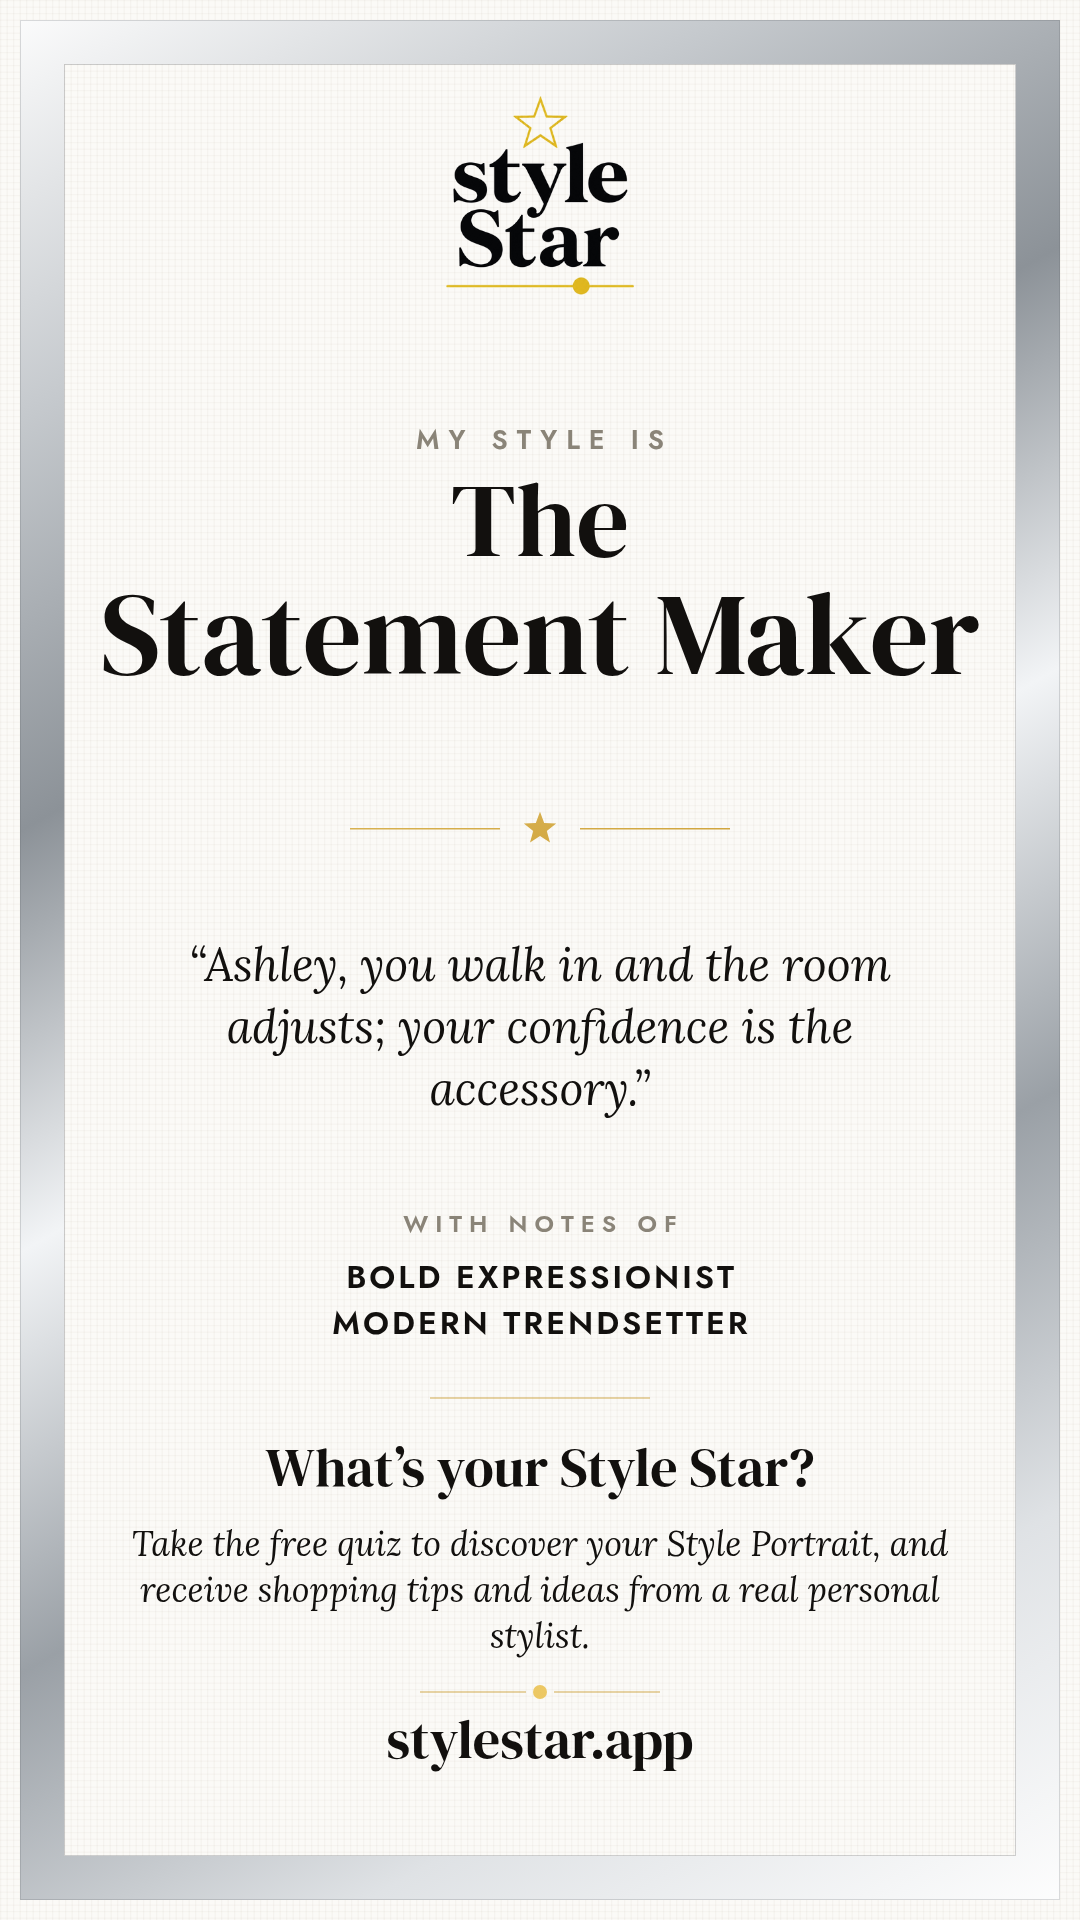
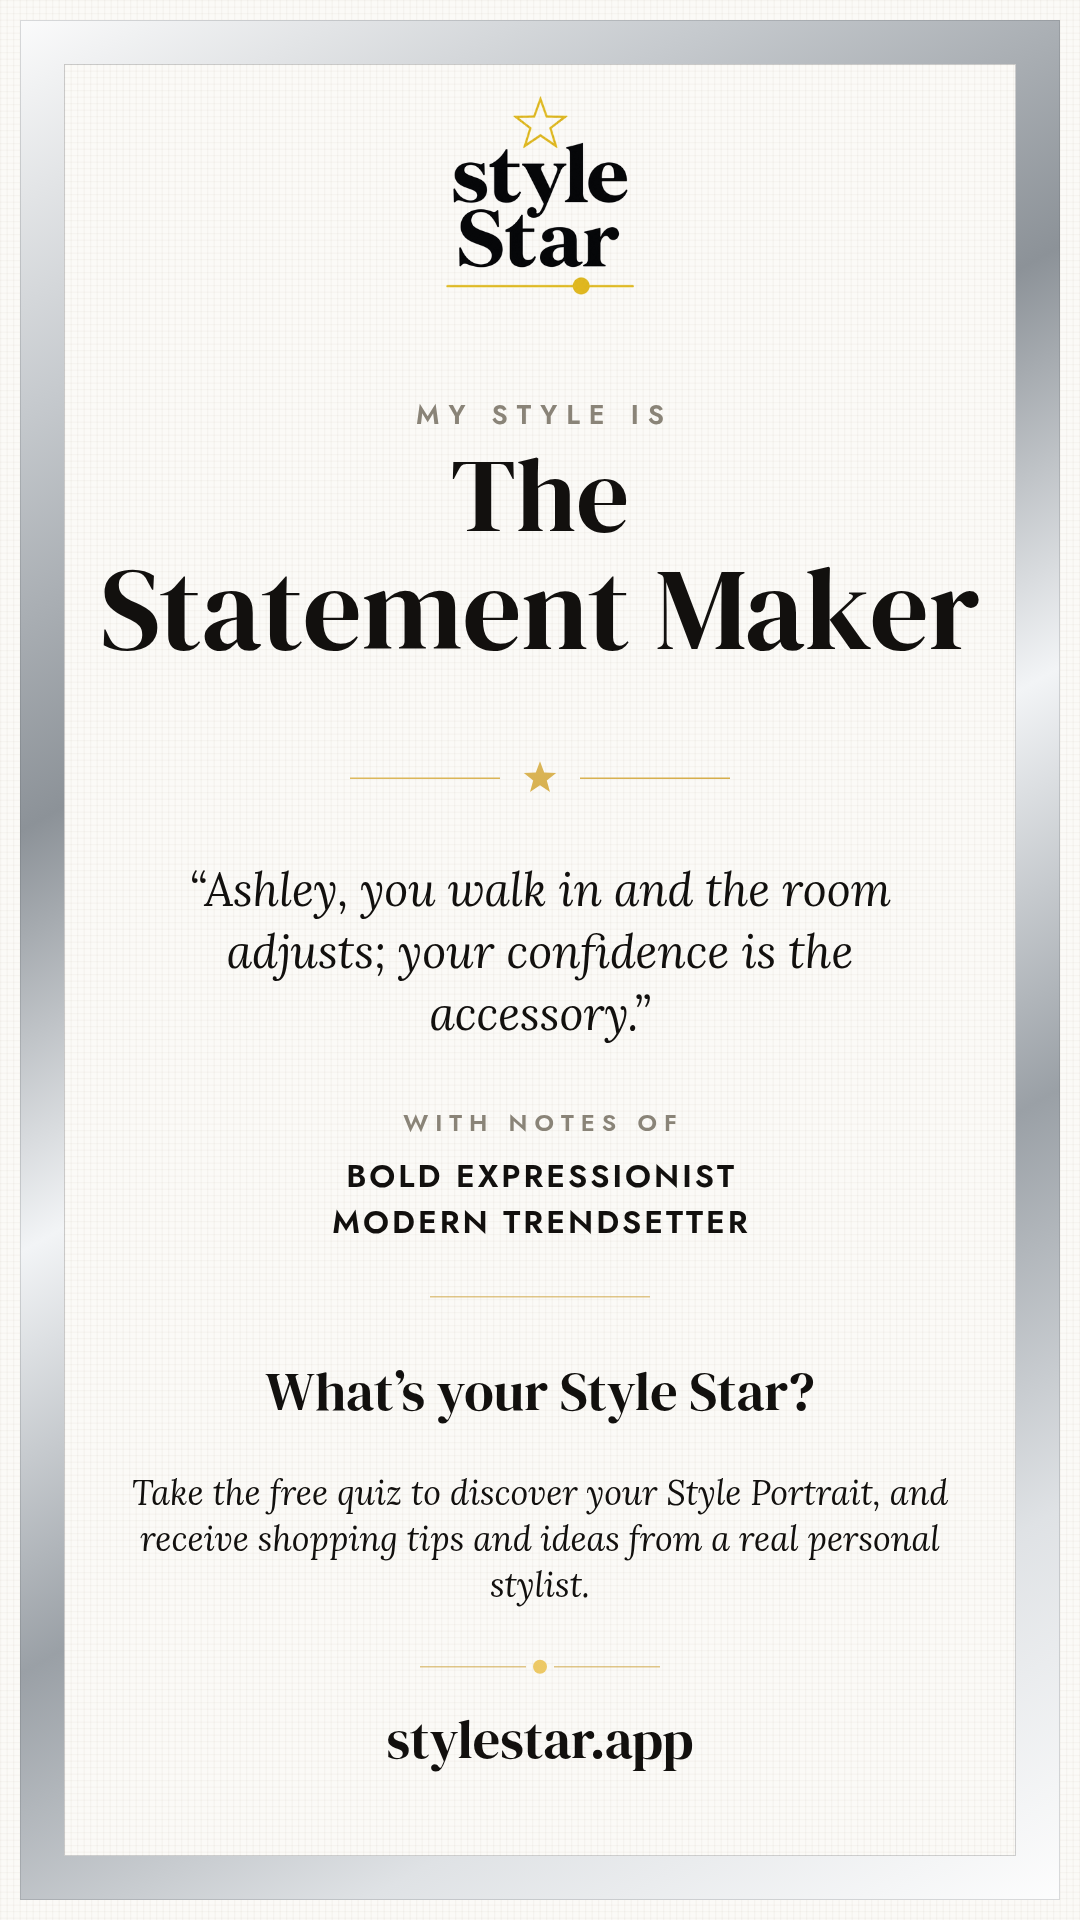
It still read bottom heavy, and the centroid was measuring the wrong thing
Her verdict on the "balanced" card: "it still looks bottom heavy." She was right
and the previous measurement was not wrong so much as measuring the wrong
quantity.

▶▶ HEAVINESS IS DENSITY, NOT CENTRE OF MASS. The ink centroid sat +18px off dead
centre, which is why it passed. But the halves were nothing alike:
    top half   5 rows of text, gaps of 269px and 163px, density 23.5
    bottom    12 rows of text, biggest gap 111px,       density 25.8
One enormous archetype name balances the WEIGHT of twelve small lines while
looking nothing like them. A centroid can sit dead centre while one half breathes
and the other is crowded. ▶ Measure ROWS and GAPS, not just where the ink
averages out.

THE CAUSE WAS MY OWN PREVIOUS FIX, HALF-APPLIED: the air budget was spent only on
the four seams of the UPPER block. The tail got none, so the top breathed in two
huge gaps while the bottom packed twelve lines in. The budget now spans ALL EIGHT
seams, four above and four in the tail.
    top/bottom density   25.8/23.5 (bottom crowded)  ->  21.0/28.3 (top now the
    denser half, which is what reads as settled: weight up top, air below)
    blank px             500/404  ->  439/466
    biggest gap          269px    ->  219px

⚠ THE ORDERING HAD TO BE REBUILT, not patched. Air needs the block height, the
block height needs the room, the room needs the tail height, and the tail rows
now need the air — a cycle. The whole region is one pass in a fixed order:
[…]

Changed region(s): [[0.0917, 0.2188, 0.8861, 0.875], [0.6111, 0.2812, 0.9167, 0.375], [0.5806, 0.2188, 0.6111, 0.25]]

diff --git a/index.html b/index.html
@@ -12121,21 +12121,70 @@ function buildCardBlob(source,callback){
 
     ctx.textAlign='center';ctx.textBaseline='alphabetic';
 
-    // ── the tail, laid out BOTTOM-UP ───────────────────────────────────────
-    /* Every collision while designing this came from one mistake: pieces
-       positioned by fixed offsets from the TOP while the foot was pinned to the
-       BOTTOM, so anything that grew in the middle walked through them. The tail
-       is a stack: each row declares its height, the stack lays out from the
-       bottom edge upward, and it reports the ceiling the rest must respect.
-       Overlap is impossible by construction rather than by tuning. */
+    /* ── LAYOUT, IN ONE PASS AND IN THIS ORDER ───────────────────────────────
+       Every collision on this card came from one mistake: pieces positioned by
+       fixed offsets from the TOP while the foot was pinned to the BOTTOM, so
+       anything that grew in the middle walked through them. So: measure the tail,
+       measure the block, work out the air, THEN draw. Nothing is positioned
+       before everything is known, and overlap is impossible by construction.
+
+       ⚠ AIR IS SPENT ON EVERY SEAM, TOP AND BOTTOM. An earlier version spent it
+       only on the four seams of the upper block, and the card then MEASURED as
+       balanced by centre of mass while READING bottom-heavy — because one huge
+       archetype name balances the WEIGHT while the bottom carries twelve lines of
+       text to the top's five, in less space:
+           top half   5 rows, gaps of 269px and 163px, density 23.5
+           bottom    12 rows, biggest gap 111px,       density 25.8
+       ▶ HEAVINESS IS DENSITY, NOT CENTRE OF MASS. A centroid can sit dead centre
+       while one half breathes and the other is crowded. Measure rows and gaps. */
+    const FOOT_MARGIN=150,TOP_MARGIN=92;   // her call: the logo comes up
+
+    // 1. the tail's natural height
+    ctx.font='italic 400 34px "Lora", serif';
+    const promiseLines=wrap('Take the free quiz to discover your Style Portrait, and receive shopping tips and ideas from a real personal stylist.',W-240);
+    const promiseH=promiseLines.length*46+18;
+    const tailBase=58+40+promiseH+92+52;
+
+    // 2. the upper block's natural height, with the motto shrinking to fit
+    /* Her generated motto is capped at 95 chars by the prompt and needs 3 lines,
+       but a save from before mottos existed falls back to a portrait excerpt of
+       up to 140 chars, which can run to six. That is the ONE path a real woman
+       could hit that no design render ever did, and a card set a point smaller is
+       far better than one that overlaps. */
+    const LOGO_W=196,LOGO_H=LOGO_W*312/296;
+    const words=arch.split(' ');
+    const head=words[0],rest=words.slice(1).join(' ')||words[0];
+    const fsHead=104;
+    const fs=fitFont(rest,'"DM Serif Display", serif',116,58,W-190);
+    const H_LOGO=LOGO_H+72,H_OVER=54,H_NAME=fsHead*1.02+fs*1.06+34,
+          H_DIV=96,H_NOT=notes.length?(74+notes.length*46):0;
+    const room=H-TOP_MARGIN-FOOT_MARGIN-tailBase;
+    let ms=46,ml,H_MOT,blockH;
+    for(;;){
+      ctx.font='italic 400 '+ms+'px "Lora", serif';
+      ml=wrap('“'+quote+'”',W-300);
+      H_MOT=ml.length*(ms+16)+34;
+      blockH=H_LOGO+H_OVER+H_NAME+H_DIV+H_MOT+H_NOT;
+      if(blockH<=room||ms<=30)break;
+      ms-=2;
+    }
+
+    // 3. the air, shared equally across all eight seams
+    /* ⚠ Capped at 52px: past that the pieces stop reading as one composition and
+       start reading as eight separate things. Whatever is left over falls into the
+       gap above the tail rule, which is the seam between HER half of the card and
+       the invitation half — the one place a large gap is doing a job. */
+    const SEAMS=8;
+    const AIR=Math.min(52,Math.max(0,room-blockH)/SEAMS);
+
+    // 4. build the tail, each row carrying its share of the air BELOW it
     const rows=[];
     const push=function(h,draw){rows.push({h:h,draw:draw})};
-
     push(58,function(y){
       ctx.fillStyle=BLACK;ctx.font='54px "DM Serif Display", serif';
       ctx.fillText('stylestar.app',W/2,y+46);
     });
-    push(40,function(y){
+    push(40+AIR,function(y){
       ctx.strokeStyle='rgba(201,153,43,.55)';ctx.lineWidth=1.4;
       ctx.beginPath();
       ctx.moveTo(W/2-120,y+20);ctx.lineTo(W/2-14,y+20);
@@ -12143,71 +12192,27 @@ function buildCardBlob(source,callback){
       ctx.fillStyle=gold;ctx.beginPath();ctx.arc(W/2,y+20,7,0,7);ctx.fill();
     });
     /* HER SENTENCE, word for word. "of 20 years" was cut on her instruction
-       ("I feel like we already say it a lot") and "a REAL personal stylist" is
-       her own replacement — the stronger claim here, because the objection a
-       stranger brings to a style app is not "is she experienced" but "is this
-       just an algorithm", which is Sally's whole note answered in one word.
+       ("I feel like we already say it a lot") and "a REAL personal stylist" is her
+       own replacement — the stronger claim here, because the objection a stranger
+       brings to a style app is not "is she experienced" but "is this just an
+       algorithm", which is Sally's whole note answered in one word.
        ⚠ There is deliberately NO separate founder byline: this sentence carries
-       the claim, and running both said "personal stylist" twice in a row.      */
-    ctx.font='italic 400 34px "Lora", serif';
-    const promise=wrap('Take the free quiz to discover your Style Portrait, and receive shopping tips and ideas from a real personal stylist.',W-240);
-    push(promise.length*46+18,function(y){
+       the claim, and running both said "personal stylist" twice in a row. */
+    push(promiseH+AIR,function(y){
       ctx.fillStyle=BLACK;ctx.font='italic 400 34px "Lora", serif';
-      promise.forEach(function(t,i){ctx.fillText(t,W/2,y+40+i*46)});
+      promiseLines.forEach(function(t,i){ctx.fillText(t,W/2,y+40+i*46)});
     });
-    push(92,function(y){
+    push(92+AIR,function(y){
       ctx.fillStyle=BLACK;ctx.font='54px "DM Serif Display", serif';
       ctx.fillText('What’s your Style Star?',W/2,y+62);
     });
-    push(52,function(y){
+    push(52+AIR,function(y){
       ctx.strokeStyle='rgba(201,153,43,.55)';ctx.lineWidth=1.4;
       ctx.beginPath();ctx.moveTo(W/2-110,y+26);ctx.lineTo(W/2+110,y+26);ctx.stroke();
     });
 
-    /* ⚠ FOOT_MARGIN is not decoration. Measured, the tail was ending 1px off
-       the frame while the logo had 66px of air above it, which is exactly the
-       bottom-heaviness she spotted by eye. */
-    const FOOT_MARGIN=150,TOP_MARGIN=92;   // her call: the logo comes up
-    const tailH=rows.reduce(function(a,r){return a+r.h},0);
-    const ceiling=H-FOOT_MARGIN-tailH;
-
-    // ── the upper block MEASURES ITSELF, then centres in the room left over ──
-    // so the card balances at any height instead of collecting its slack in one
-    // hole in the middle (300px at this size, before the fix)
-    const LOGO_W=196,LOGO_H=LOGO_W*312/296;
-    const words=arch.split(' ');
-    const head=words[0],rest=words.slice(1).join(' ')||words[0];
-    const fsHead=104;
-    const fs=fitFont(rest,'"DM Serif Display", serif',116,58,W-190);
-    /* The motto SHRINKS TO FIT rather than overflowing. Her generated motto is
-       capped at 95 chars by the prompt and needs 3 lines, which leaves ~248px
-       spare — but a save from before mottos existed falls back to a portrait
-       excerpt of up to 140 chars, and that can run to six lines. Without this
-       the block would quietly draw through the tail.
-       ⚠ A card that overlaps is worse than one set a point smaller, and this
-       is the ONE path a real woman could hit that the design renders never did. */
-    const H_LOGO=LOGO_H+72,H_OVER=54,H_NAME=fsHead*1.02+fs*1.06+34,
-          H_DIV=96,H_NOT=notes.length?(74+notes.length*46):0;
-    let ms=46,ml,H_MOT,blockH;
-    for(;;){
-      ctx.font='italic 400 '+ms+'px "Lora", serif';
-      ml=wrap('“'+quote+'”',W-300);
-      H_MOT=ml.length*(ms+16)+34;
-      blockH=H_LOGO+H_OVER+H_NAME+H_DIV+H_MOT+H_NOT;
-      if(blockH<=ceiling-TOP_MARGIN||ms<=30)break;
-      ms-=2;
-    }
-    /* ⚠ Her catch: "too much white space above the logo". Centring the block in
-       the leftover room put HALF the slack on top of the logo, which reads as a
-       hole rather than as balance. The logo is anchored high now and the slack is
-       shared out BETWEEN the elements, so the card fills evenly top to bottom.
-       ⚠ AIR is capped: past ~64px the pieces stop reading as one composition and
-       start reading as six separate things. Any slack left over falls into the
-       gap above the tail rule, which is the seam between HER half of the card and
-       the invitation half, and is the right place for it. */
-    const AIR=Math.min(64,Math.max(0,(ceiling-TOP_MARGIN-blockH)/4));
+    // 5. draw the upper block from the top, spending its four seams
     let y=TOP_MARGIN;
-
     const src=logoCut||logo;
     if(src&&(src.width||src.naturalWidth)){
       const nw=src.width||src.naturalWidth,nh=src.height||src.naturalHeight;
@@ -12242,10 +12247,10 @@ function buildCardBlob(source,callback){
     if(notes.length){
       ctx.fillStyle=TAUPE;ctx.font='600 24px "Jost", sans-serif';
       trackedText('WITH NOTES OF',W/2,y+26,7);
-      /* STACKED, not side by side (her call). It also removes the shrink-to-fit
-         loop's worst case: the two longest names together ran 40 chars and drove
-         the type down to fit one line, where stacked each name gets the full
-         width and holds its size. */
+      /* STACKED, not side by side (her call). It also removed a real weakness:
+         side by side the two longest names ran 40 chars together and drove the
+         shrink-to-fit loop down to keep them on one line; stacked, each gets the
+         full width and holds its size. */
       const short=notes.map(function(n){return String(n).replace(/^The\s+/i,'').toUpperCase()});
       ctx.fillStyle=BLACK;
       let ns=32;ctx.font='600 '+ns+'px "Jost", sans-serif';
@@ -12255,6 +12260,7 @@ function buildCardBlob(source,callback){
       short.forEach(function(n,i){trackedText(n,W/2,y+82+i*46,3)});
     }
 
+    // 6. the tail, from the bottom edge upward
     let ty=H-FOOT_MARGIN;
     rows.forEach(function(r){ty-=r.h;r.draw(ty)});
   }

diff --git a/scratchpad/starcard.js b/scratchpad/starcard.js
@@ -169,9 +169,23 @@ const lum=(p,x,y)=>p.px[(y*p.w+x)*p.bpp];
     }
     ok(!bleed, name+': no text bleeds into the frame');
 
-    // the address must survive — it is the entire point of the card
-    const footInk=rows.slice(rows.length-260,rows.length-120).reduce((a,v)=>a+v,0);
-    ok(footInk>200, name+': the foot (address + rule) is drawn');
+    /* The address must survive — it is the entire point of the card.
+       ⚠ DERIVED, NOT A FIXED WINDOW. This used to sample a hardcoded band near
+       the bottom, and it went stale the moment the layout gained air: the probe
+       kept pointing at the same pixels while the content moved, so six of the
+       longest names "lost their address" when nothing of the sort had happened.
+       Every fixed pixel probe in this suite has now broken at least once for
+       exactly this reason. Find the LAST ink band and assert about THAT. */
+    let lastInk=-1;
+    for(let i=rows.length-1;i>=0;i--) if(rows[i]>0){lastInk=i;break}
+    ok(lastInk>-1, name+': the card has ink at all');
+    const bottomGap=rows.length-1-lastInk;
+    ok(bottomGap>=20&&bottomGap<=140,
+       name+': the address sits near the foot, '+bottomGap+'px off the paper edge');
+    let bandTop=lastInk;
+    while(bandTop>0&&rows[bandTop-1]>0)bandTop--;
+    const addressInk=rows.slice(bandTop,lastInk+1).reduce((a,v)=>a+v,0);
+    ok(addressInk>400, name+': the address is fully drawn ('+addressInk+' ink)');
   }
 
   // ── Part 3: the size decision, pinned ─────────────────────────────────────
